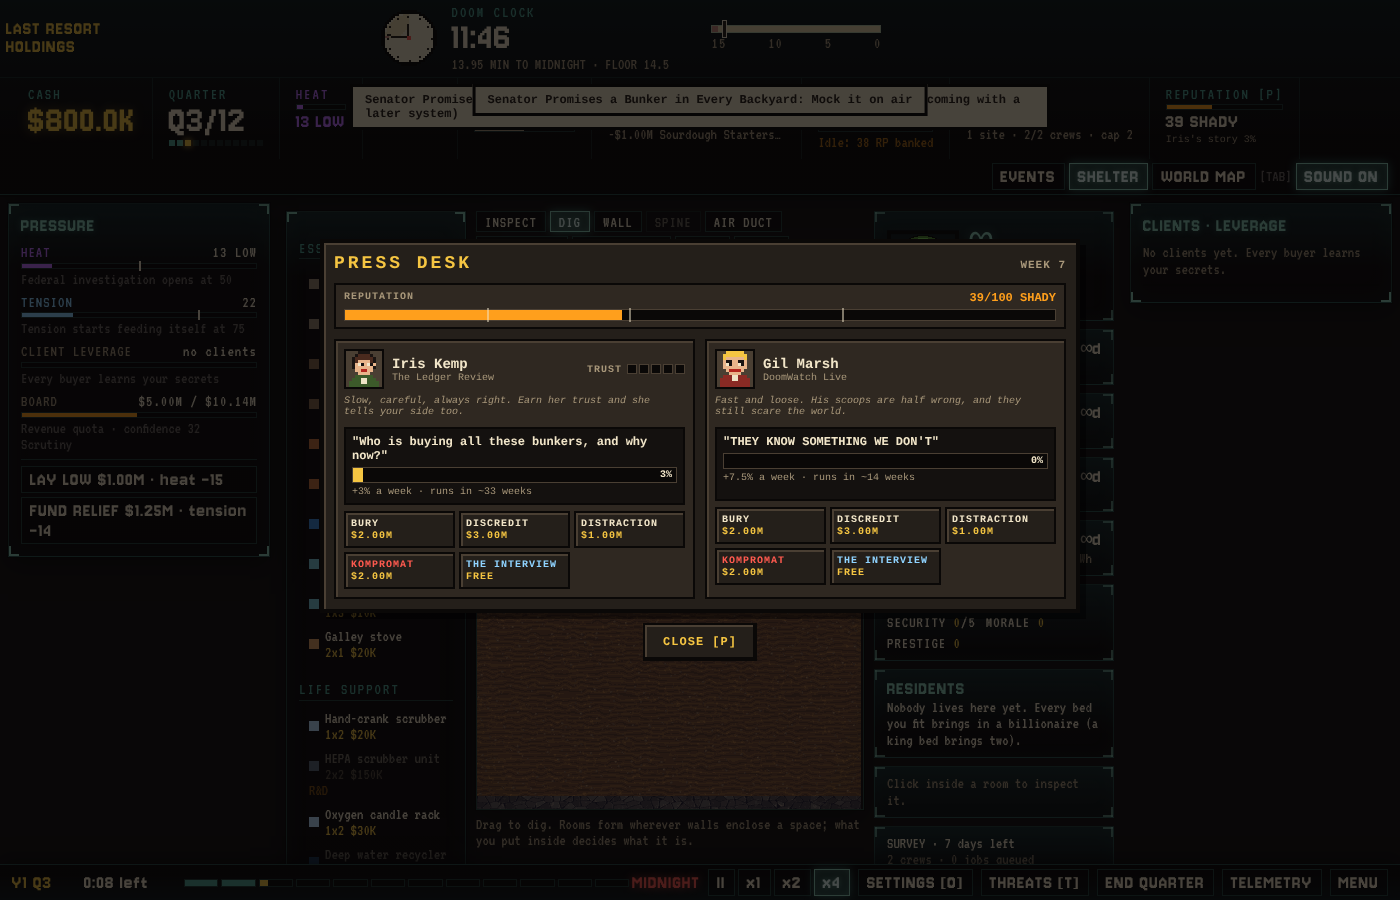
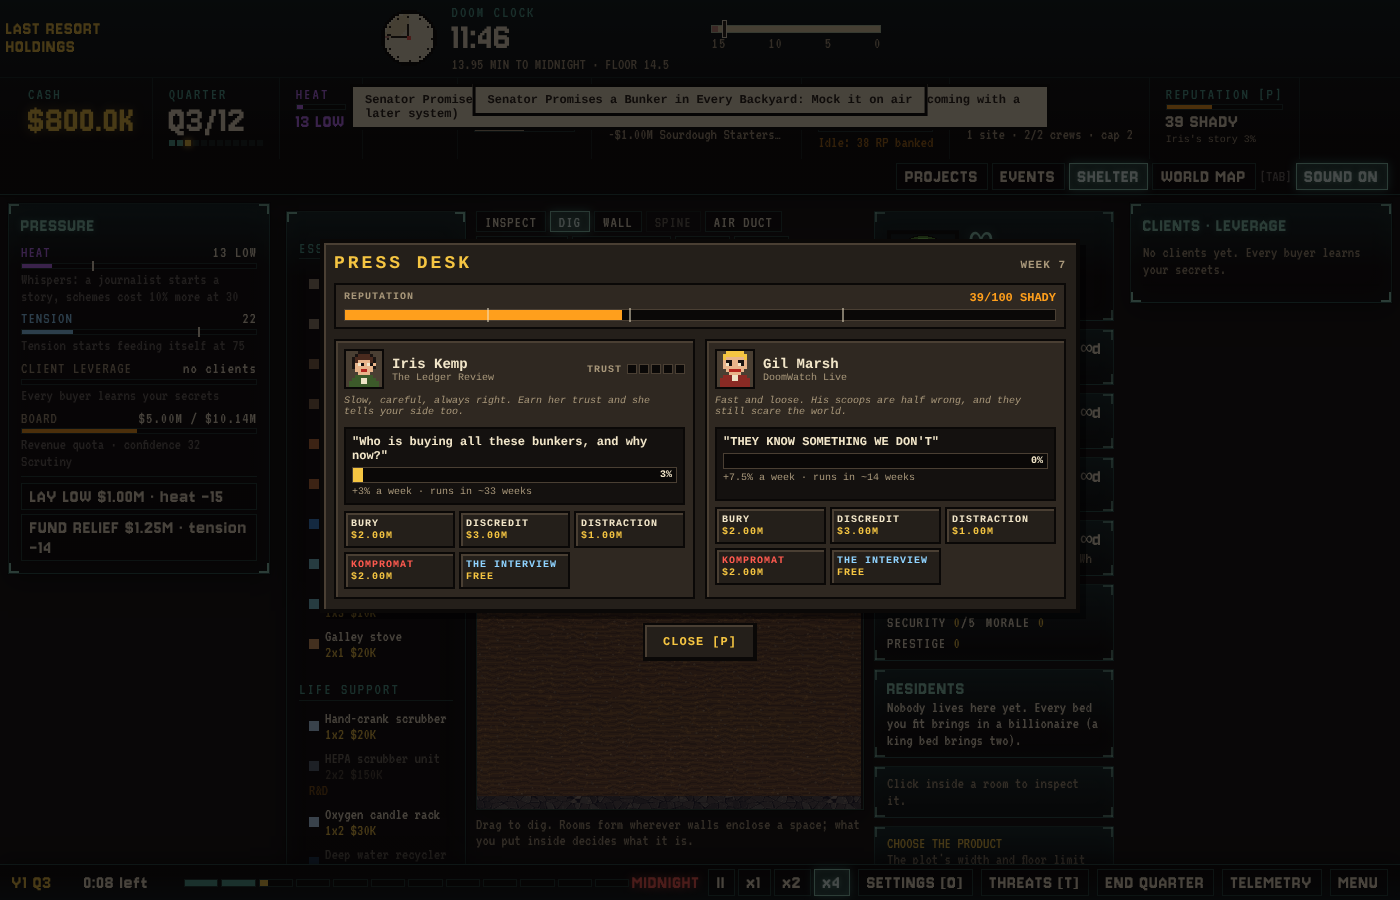
#149 Resolve the main.js merge: keep heat-band events, Whispers starts a press story
Claude-Session: https://claude.ai/code/session_0163yRzHRiwnpEm4bw6sCXiH

diff --git a/src/campaign/main.js b/src/campaign/main.js
@@ -301,7 +301,14 @@ function startCampaign({ resume, roster = [...CLASSIC_ROSTER], difficulty = chos
   pb.getCommsLevel = () => company.level('comms');
   pb.getTierIndex = () => company.tierIndex;
   crisis.on('week', () => pb.weekTick()); // heat cools weekly by difficulty (#92)
-<<<<<<< HEAD
+  let auditSecondsLeft = 0; // Investigation: one site audited a quarter, construction stops for a week
+  pb.on('audit', (e) => { auditSecondsLeft = e.weeks * WEEK_SECONDS; toast('INVESTIGATION: regulators audit the site. Construction stops for a week.'); });
+  pb.on('hearing', (e) => {
+    crisis.reputation = Math.max(0, Math.min(100, crisis.reputation + e.reputation));
+    for (const id of Object.keys(board.confidence ?? {})) board.react(id, e.boardConfidence, 'Public hearing');
+    toast(`PUBLIC HEARING: reputation ${e.reputation}, board confidence ${e.boardConfidence}, new leads ${Math.round(e.newLeads * 100)}%.`);
+  });
+  pb.on('indictment', (e) => { if (e.weeksLeft > 0) toast(`EXPOSED: indictment proceedings. ${e.weeksLeft} week${e.weeksLeft === 1 ? '' : 's'} to get heat below 95.`); });
 
   // ---------- journalists (#149) ----------
   // Iris Kemp and Gil Marsh build stories every week: 2% + 1% per 10 heat (Gil 2.5x as fast). At 100% the story
@@ -312,7 +319,7 @@ function startCampaign({ resume, roster = [...CLASSIC_ROSTER], difficulty = chos
     getMinutes: () => (clock.total / clock.quarterSeconds) * 27 });
   pb.press = press; // endings read Iris's trust from here
   crisis.on('week', () => press.tickWeek());
-  pb.on('whispers', () => { const who = press.startStory(); if (who) toast(`Whispers: ${who === 'iris' ? 'Iris Kemp' : 'Gil Marsh'} has started a story about you.`); });
+  pb.on('whispers', () => { const who = press.startStory(); toast(`WHISPERS: ${who ? `${who === 'iris' ? 'Iris Kemp' : 'Gil Marsh'} has started a story about you` : 'the press is asking questions'}. Schemes cost 10% more.`); });
   const pressOverlay = el('div', 'report-overlay press-overlay');
   pressOverlay.hidden = true;
   const pressClose = el('button', 'report-continue', 'CLOSE [P]');
@@ -352,17 +359,6 @@ function startCampaign({ resume, roster = [...CLASSIC_ROSTER], difficulty = chos
     document.body.append(overlay);
     talk.focus();
   }
-=======
-  let auditSecondsLeft = 0; // Investigation: one site audited a quarter, construction stops for a week
-  pb.on('audit', (e) => { auditSecondsLeft = e.weeks * WEEK_SECONDS; toast('INVESTIGATION: regulators audit the site. Construction stops for a week.'); });
-  pb.on('hearing', (e) => {
-    crisis.reputation = Math.max(0, Math.min(100, crisis.reputation + e.reputation));
-    for (const id of Object.keys(board.confidence ?? {})) board.react(id, e.boardConfidence, 'Public hearing');
-    toast(`PUBLIC HEARING: reputation ${e.reputation}, board confidence ${e.boardConfidence}, new leads ${Math.round(e.newLeads * 100)}%.`);
-  });
-  pb.on('whispers', () => toast('WHISPERS: a journalist has started asking questions. Schemes cost 10% more.'));
-  pb.on('indictment', (e) => { if (e.weeksLeft > 0) toast(`EXPOSED: indictment proceedings. ${e.weeksLeft} week${e.weeksLeft === 1 ? '' : 's'} to get heat below 95.`); });
->>>>>>> origin/main
   const tensions = () => Object.fromEntries(Object.values(crisis.tracks).map((t) => [t.id, t.tension]));
   const market = new LeadMarket({ seed: worldSeed + 1, reputation: () => crisis.reputation, leadMultiplier: () => pb.leadMultiplier });
   market.ownSite('nam'); // HQ
